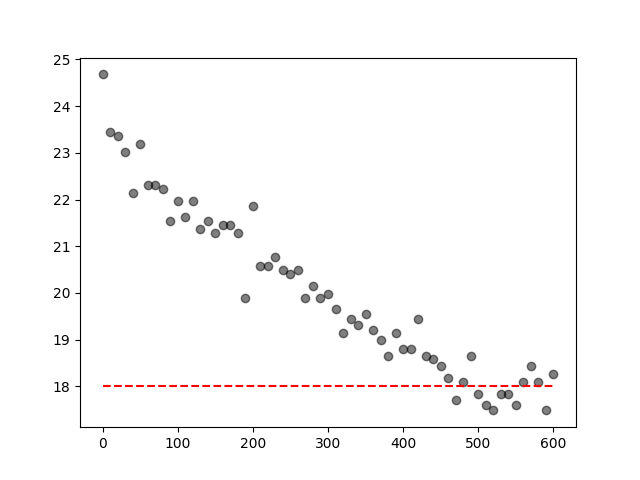
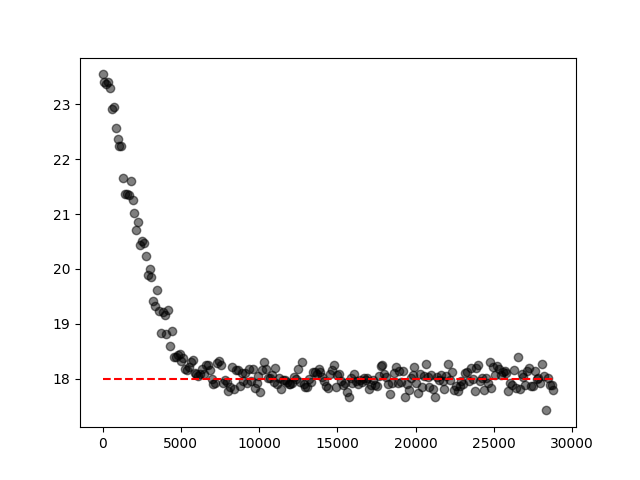
Analyzed new data of experiment overnight

diff --git a/utilities/GrapherPIDLogs.py b/utilities/GrapherPIDLogs.py
@@ -13,18 +13,20 @@ Description: Script graphing the calibration of PID controller parameters.
 
 import matplotlib.pyplot as plt
 
-file = open("data/dataP8.5I2D0.5-1.txt")
+file = open("data/dataOvernightP8.5I2D0.2.txt")
 dataset = file.readlines()
 timeData = []
 tempData = []
 
-for line in dataset:
+for line in dataset[1:]:
     t,c = map(float, line.split(','))
     tempData.append(c)
     timeData.append(t)
 
 ref = 18
 plt.figure()
+plt.title("PID Controller P-->8.5 I-->2 D-->0.2")
 plt.scatter(timeData, tempData, color = 'k', alpha=0.5)
 plt.plot([0,timeData[-1]], [ref, ref], '--', color = 'r')
+plt.ylim([17,20])
 plt.savefig('PIDplot.png')
